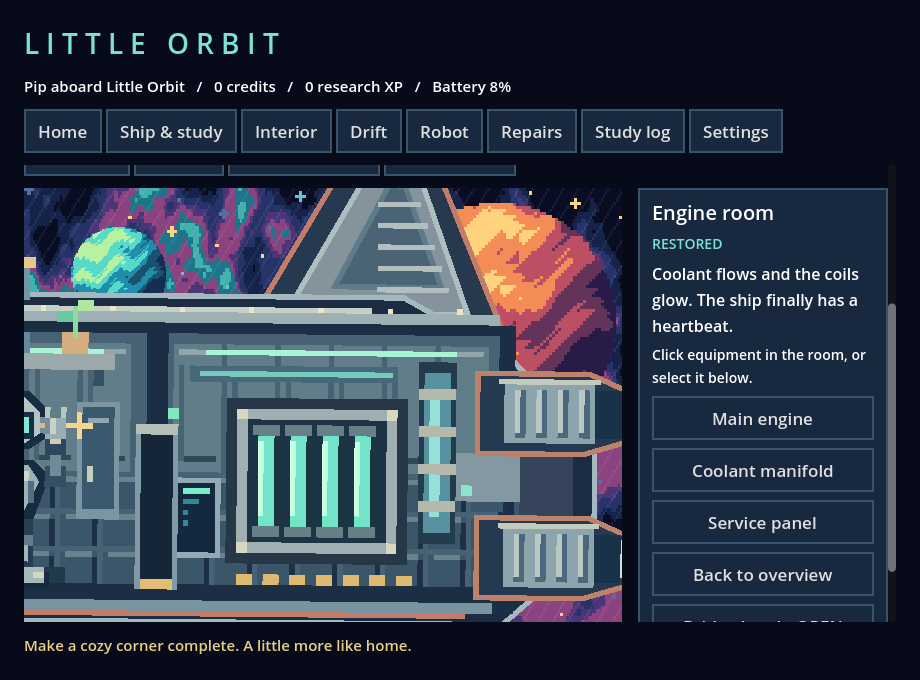
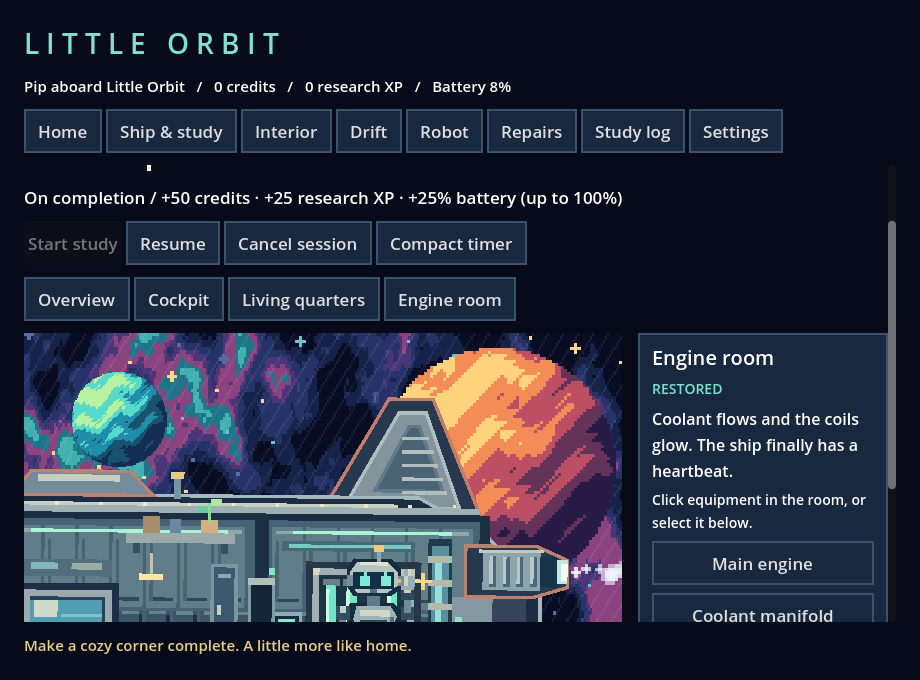
Fix name persistence, enlarge the game and follow selected rooms with the robot

diff --git a/tests/run_checks.py b/tests/run_checks.py
@@ -17,17 +17,17 @@ def main():
     parser.add_argument("--graphical", action="store_true")
     parser.add_argument("--report", type=Path)
     args = parser.parse_args()
-    suites = ["test_game", "test_ui", "test_rooms", "test_interior", "test_drift"]
+    suites = ["test_game", "test_ui", "test_rooms", "test_interior", "test_drift", "test_usability"]
     results = []
     for suite in ["import"] + suites:
-        cmd = [args.godot, "--path", str(args.project.resolve())]
+        cmd = [args.godot, "--windowed", "--path", str(args.project.resolve())]
         if suite == "import":
             cmd += ["--headless", "--editor", "--quit"]
         else:
             if not args.graphical or suite in ["test_game", "test_ui"]:
                 cmd += ["--headless"]
             cmd += ["--script", f"res://tests/{suite}.gd"]
-            if args.graphical and suite in ["test_rooms", "test_interior", "test_drift"]:
+            if args.graphical and suite in ["test_rooms", "test_interior", "test_drift", "test_usability"]:
                 cmd += ["--", "--capture"]
         try:
             run = subprocess.run(cmd, capture_output=True, text=True, timeout=45)

diff --git a/docs/PROTOTYPE.md b/docs/PROTOTYPE.md
@@ -4,6 +4,12 @@ A native Godot 4 / GDScript single-player study game. No internet, assets, or ex
 
 ## Open and play on Windows
 
+For the larger standalone window on this PC, double-click `PLAY-GAME.cmd` in the project root. It uses the Godot executable already extracted in Downloads and starts the game maximized with a 1600×900 design canvas. This avoids the small embedded preview shown inside the editor. Stop any existing run before starting it. Godot's editor can still launch the project with F5.
+
+Names now autosave after a short typing pause, on leaving the form, and on clean exit. Enter or the form button saves and continues. New-game setup is marked complete only by continuing. A failed save is shown on the form rather than reporting success.
+
+Room framing now uses a wider 176×100 camera region instead of the previous 112×60 close-up. Selecting a room automatically moves the companion into it with a stepping animation. Hatches on the route open automatically; this requires no player movement input and changes no study rewards.
+
 1. Install Godot 4.4 or newer, standard edition (no .NET required).
 2. In the project manager choose **Import**, select `project.godot`, then **Import & Edit**.
 3. Press **F6** with `scenes/main.tscn` open, or **F5** to run the project.
@@ -48,6 +54,7 @@ The compact timer is a separate native, always-on-top window. Closing it hides i
 - `tests/test_minimized.gd`: real one-minute countdown acceptance test with a minimized native Windows window; takes about 65 seconds.
 - `tests/mutation_check.py`: verifies the suites reject five deliberately introduced regressions in isolated project copies; standard Python only.
 - `tests/run_checks.py`: runs import and the full regression suite; rejects GDScript errors even if Godot reports exit code zero. Use `--graphical` to capture current game screens and check native rendered-frame animation.
+- `tests/test_usability.gd`: actual file persistence for typed names, Enter/navigation save paths, window configuration, full-room framing, companion arrival/visibility, rapid room changes and timer continuity.
 
 The UI requests operations from Game and never grants study rewards. Catalog IDs link ownership to art. Future components/rooms can extend the catalog and visual layer; planetary discoveries can be added with a versioned save migration and deterministic seed field.
 

diff --git a/docs/VALIDATION.md b/docs/VALIDATION.md
@@ -1,5 +1,17 @@
 # Phases 1–2 validation
 
+## Larger window, name persistence and room-following fixes
+
+The full strict graphical run passed **121 assertions** and editor import with no GDScript compile/runtime diagnostics. Per-suite results are in `usability-check-results.json`. This includes the existing 101 assertions plus 20 usability checks.
+
+The new checks type names through the LineEdit text-change callbacks and read the actual isolated save file, then reload it. They cover autosave, setup completion, leaving Settings before the debounce fires, returning to Settings, and Enter-to-save. They also verify the 1600×900/maximized configuration, automatic robot arrival in every room, room/companion visibility inside the wider camera, latest-target behavior after rapid navigation, automatic hatch opening, and unchanged study timing.
+
+`room-following.png` is an actual native render of the larger scene with persisted test names and the companion in the cockpit. The direct launcher path was checked against the installed Godot executable. The launcher itself has not been exercised against the player's real save during validation; automated suites use isolated saves. The embedded editor preview's own zoom setting remains an editor preference; `PLAY-GAME.cmd` bypasses it.
+
+```powershell
+python tests/run_checks.py --godot C:/Tools/Godot.exe --graphical --report usability-check-results.json
+```
+
 Validated using Godot 4.4.1 stable on Windows, with app-data/cache paths redirected into the workspace for this restricted execution environment.
 
 - Headless editor import: passed; no GDScript parse errors.
